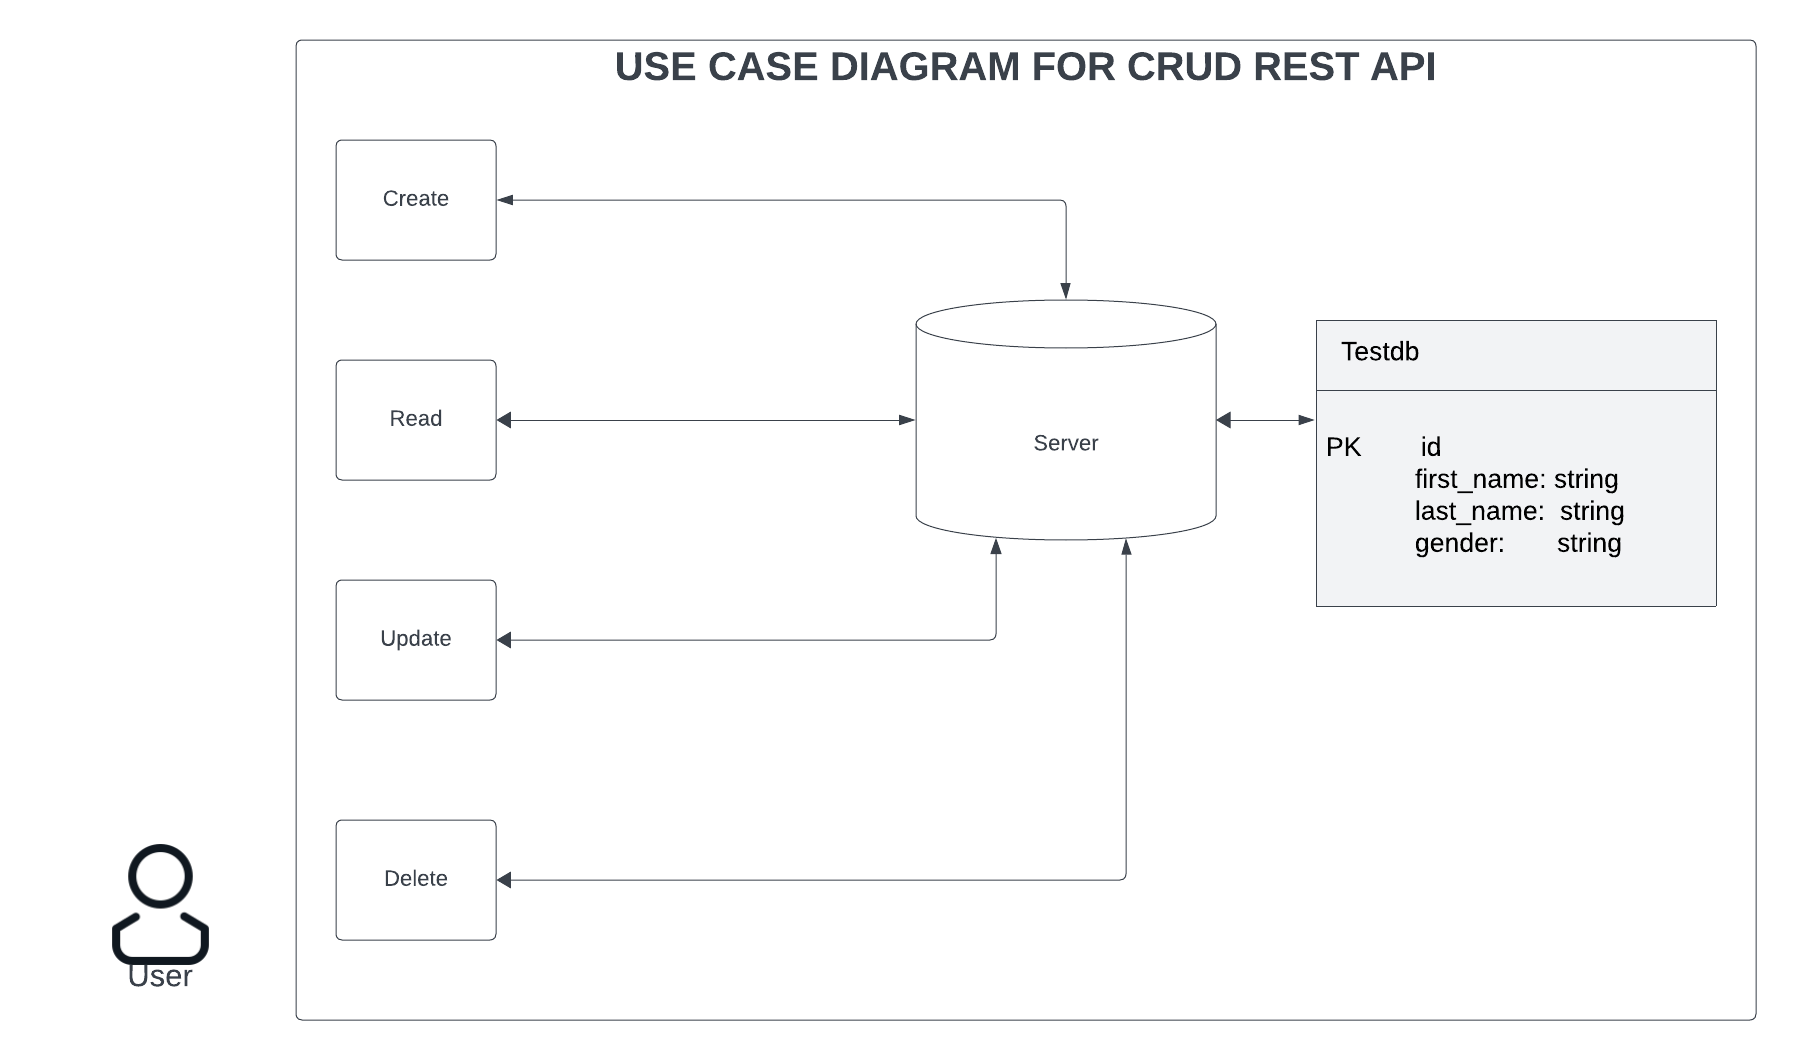
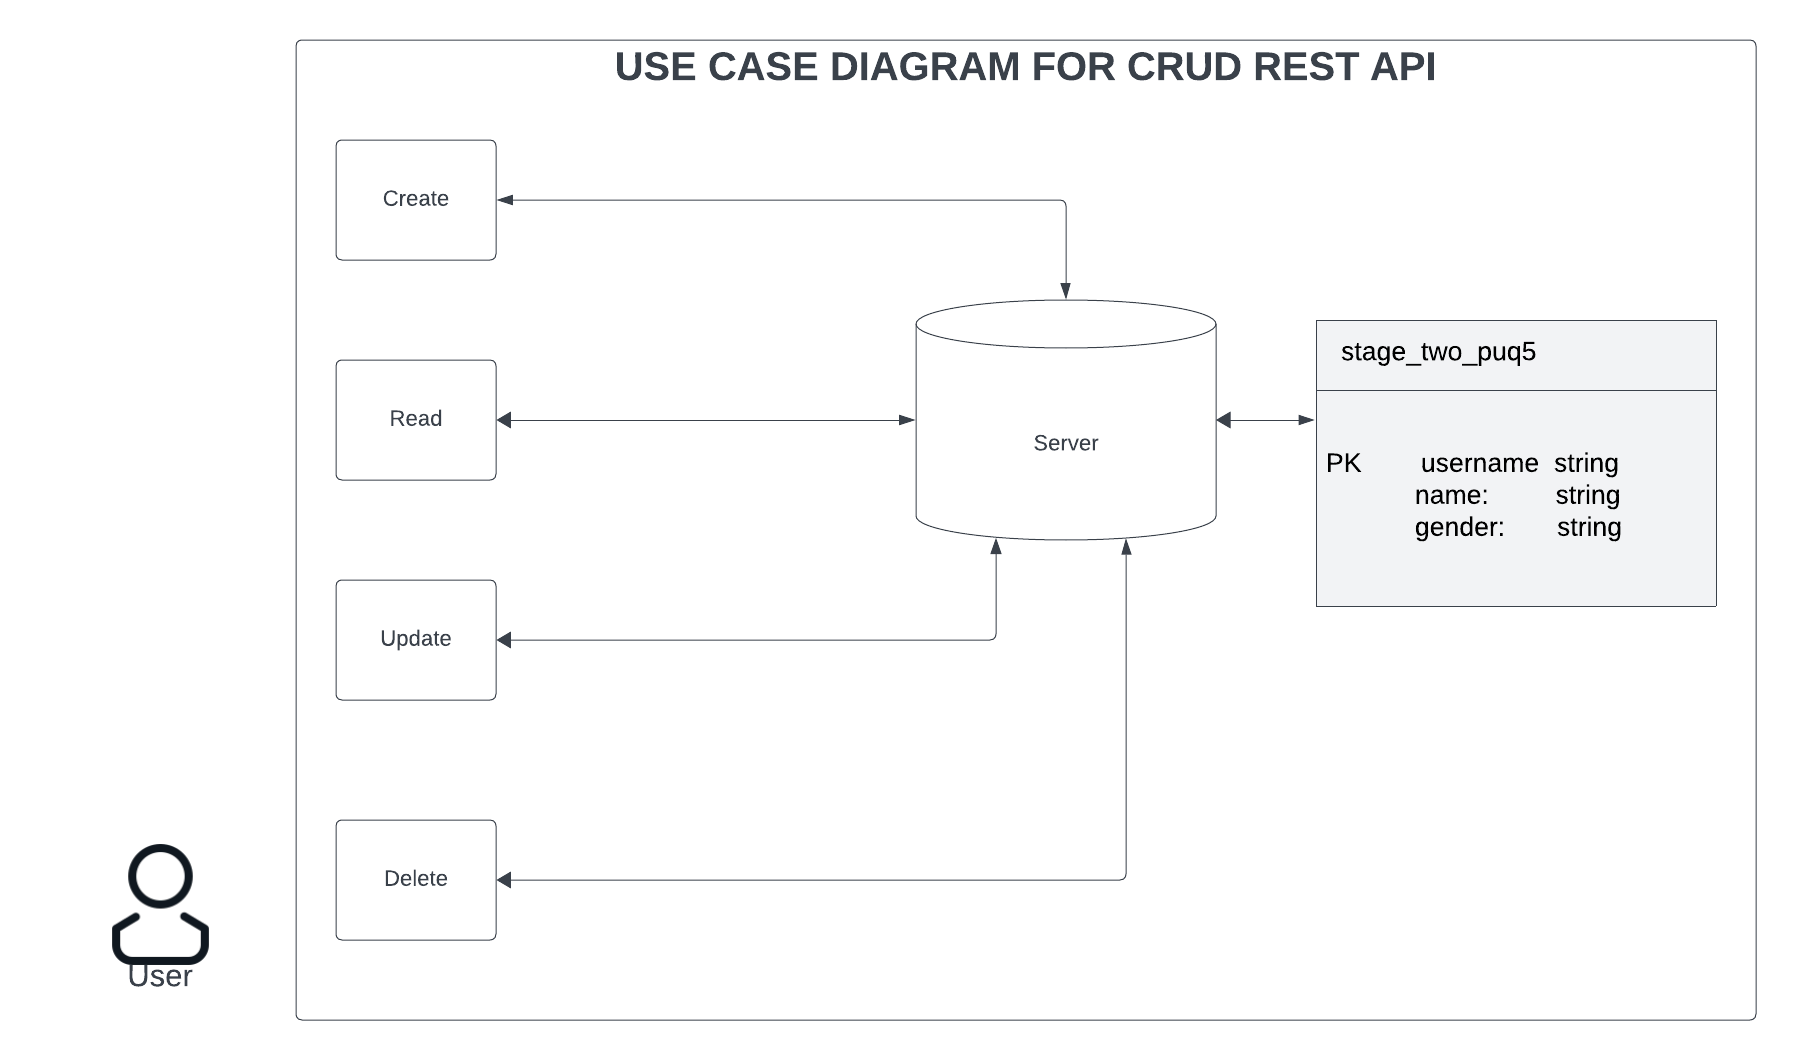
feat: dynamic input

Changed region(s): [[0.7171, 0.4047, 0.9042, 0.5292], [0.7483, 0.3113, 0.8731, 0.3425]]

diff --git a/app/controllers/index.js b/app/controllers/index.js
@@ -6,20 +6,20 @@ const Op = db.Sequelize.Op;
 exports.create = (req, res) => {
     try {
                 // Validate request
-        if ( !req.body.first_name || !req.body.last_name || !req.body.gender) {
+        if ( !req.body.name || !req.body.username || !req.body.gender) {
             res.status(400).send({
                 message: "All fields are required!"
             });
         return;
         }
 
-        else if (typeof(req.body.first_name) != "string") {
+        else if (typeof(req.body.name) != "string") {
         res.status(400).send({
         message: "First name must be a string!"
         });
         return;
         }
-        else if (typeof(req.body.last_name) != "string") {
+        else if (typeof(req.body.username) != "string") {
         res.status(400).send({
         message: "Last name must be a string!"
         });
@@ -35,8 +35,8 @@ exports.create = (req, res) => {
 
         // Create a user
         const user = {
-        first_name: req.body.first_name,
-        last_name: req.body.last_name,
+        name: req.body.name,
+        username: req.body.username,
         gender: req.body.gender
         };
 
@@ -55,13 +55,13 @@ exports.create = (req, res) => {
 // Find a single User with an id
 exports.findOne = (req, res) => {
 
-    const user_id = req.params.user_id + "%";
+    const user_id = req.params.user_id;
 
     User.findOne(
         {
             where: { [Op.or]: [
-                { first_name: { [Op.like]: user_id } },
-                {last_name: { [Op.like]: user_id } },
+                { name: { [Op.like]: user_id } },
+                {username: { [Op.like]: user_id } },
                 {gender: { [Op.like]: user_id } }],
                 
             }   }
@@ -85,7 +85,7 @@ exports.findOne = (req, res) => {
 
 // Update a User by the id in the request
 exports.update = (req, res) => {
-    const user_id = req.params.user_id + "%";
+    const user_id = req.params.user_id;
     if ( !req.body) {
         res.status(400).send({
             message: "Enter a value"
@@ -102,8 +102,8 @@ exports.update = (req, res) => {
 
     User.update(req.body, {
         where: { [Op.or]: [
-            { first_name: { [Op.like]: user_id } },
-            {last_name: { [Op.like]: user_id } },
+            { name: { [Op.like]: user_id } },
+            {username: { [Op.like]: user_id } },
             {gender: { [Op.like]: user_id } }],
             
         }   
@@ -129,12 +129,12 @@ exports.update = (req, res) => {
 // Delete a User with the specified id in the request
 exports.delete = (req, res) => {
 
-    const user_id = req.params.user_id + "%";
+    const user_id = req.params.user_id;
 
     User.destroy({
         where: { [Op.or]: [
-            { first_name: { [Op.like]: user_id } },
-            {last_name: { [Op.like]: user_id } },
+            { name: { [Op.like]: user_id } },
+            {username: { [Op.like]: user_id } },
             {gender: { [Op.like]: user_id } },],
             
         }    

diff --git a/app/models/user.js b/app/models/user.js
@@ -1,9 +1,11 @@
 module.exports = (sequelize, Sequelize) => {
     const User = sequelize.define("users", {
-    first_name: {
-            type: Sequelize.STRING
-          },
-    last_name: {
+    username: {
+        allowNull: false,
+        primaryKey: true,
+        type: Sequelize.STRING
+      },
+    name: {
             type: Sequelize.STRING
           },
     gender: {
